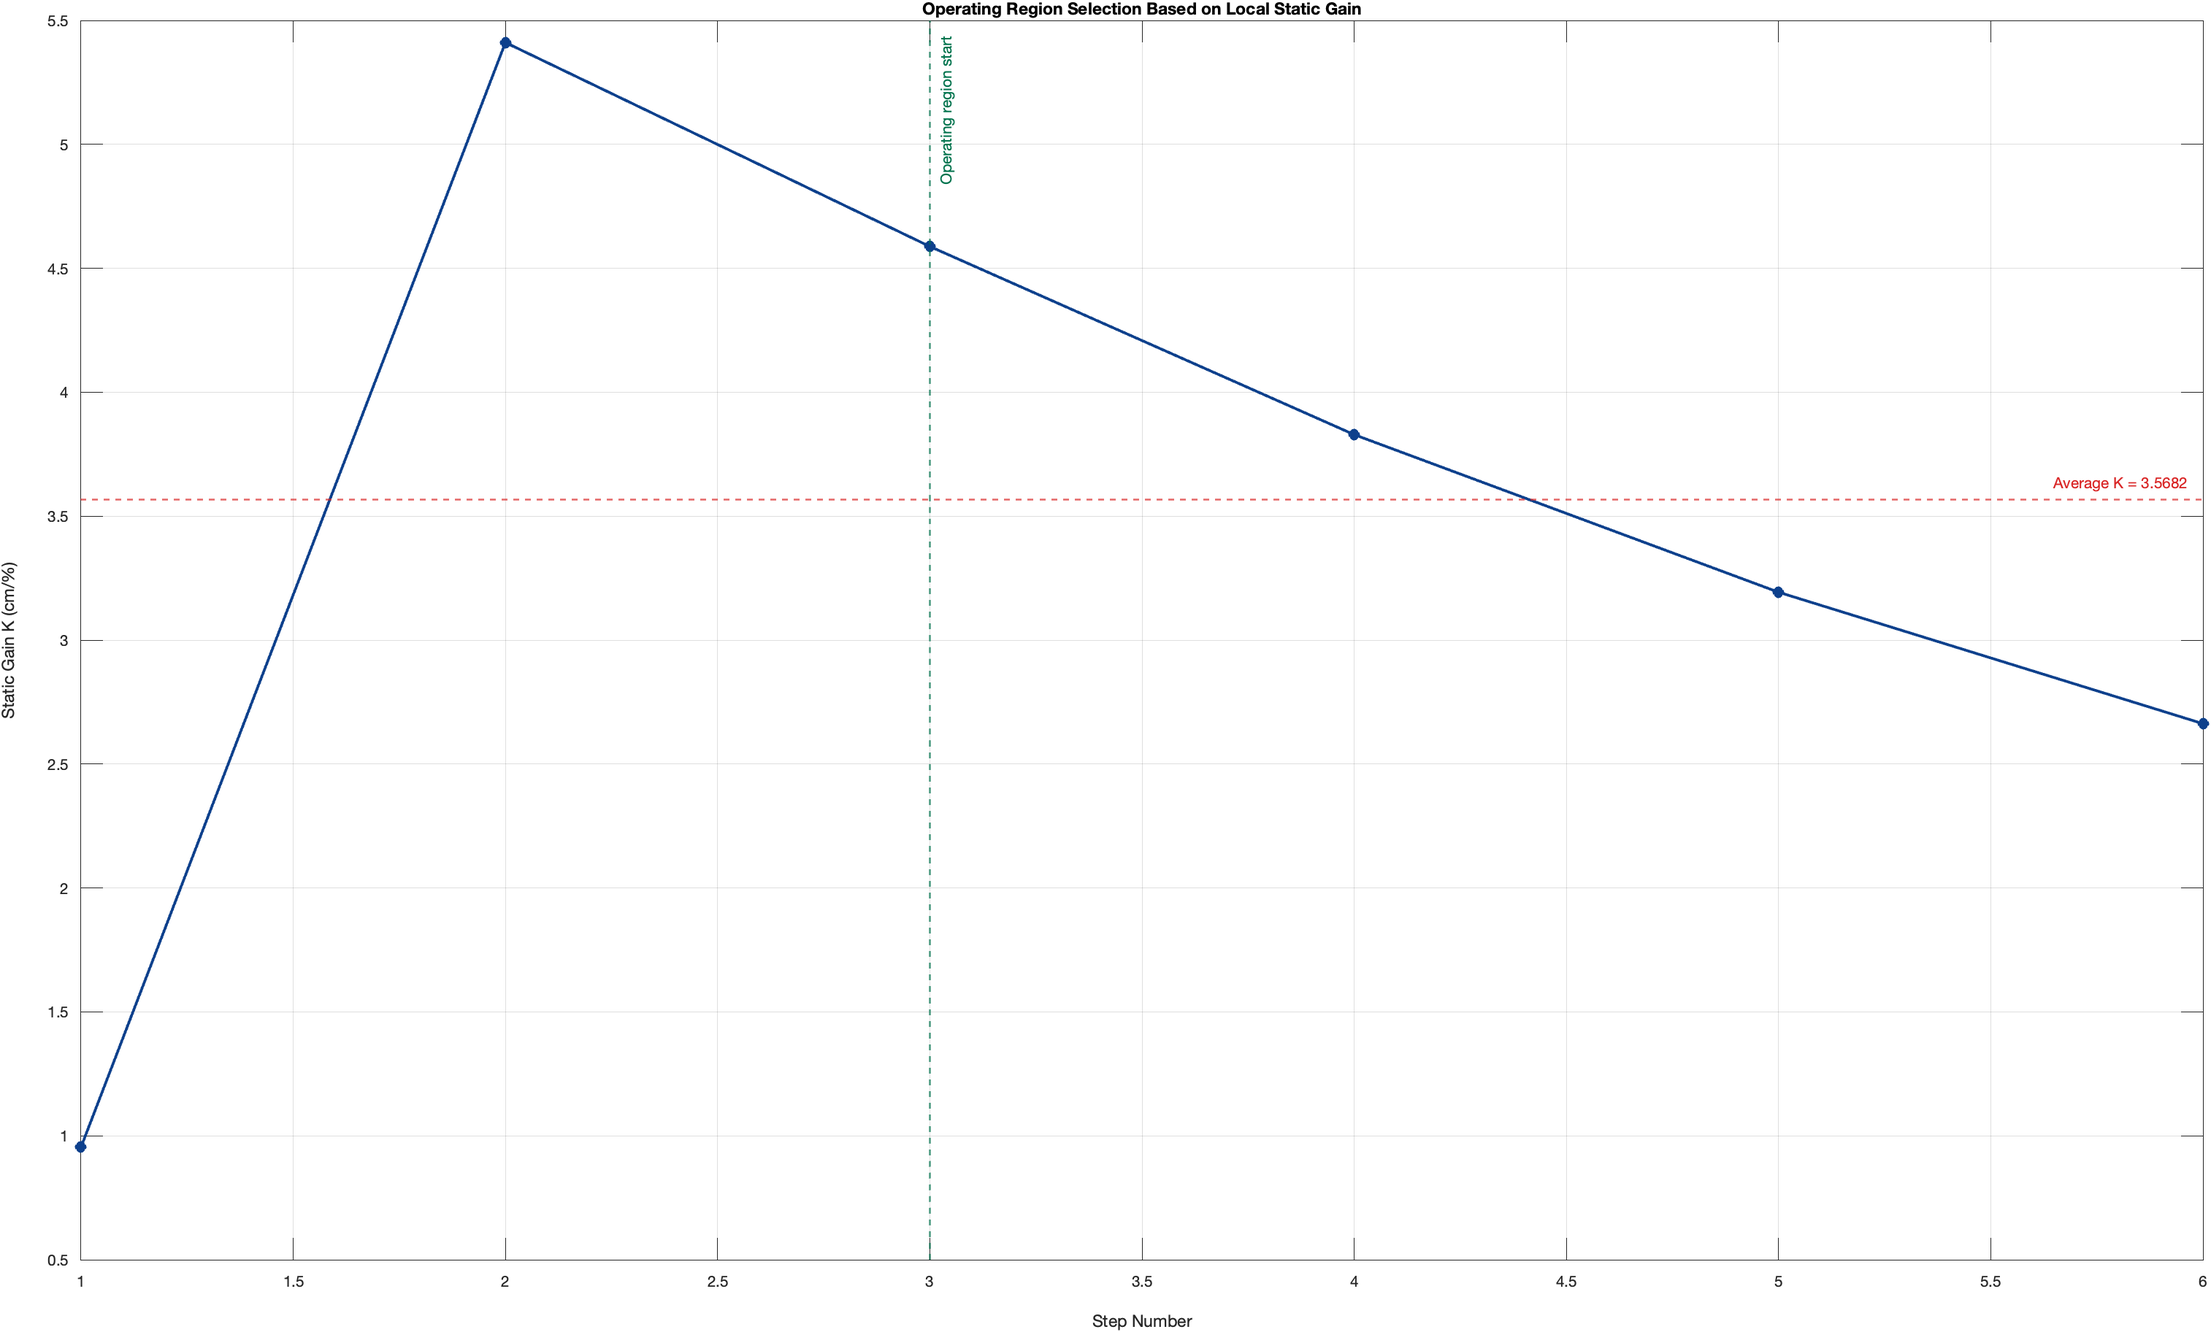
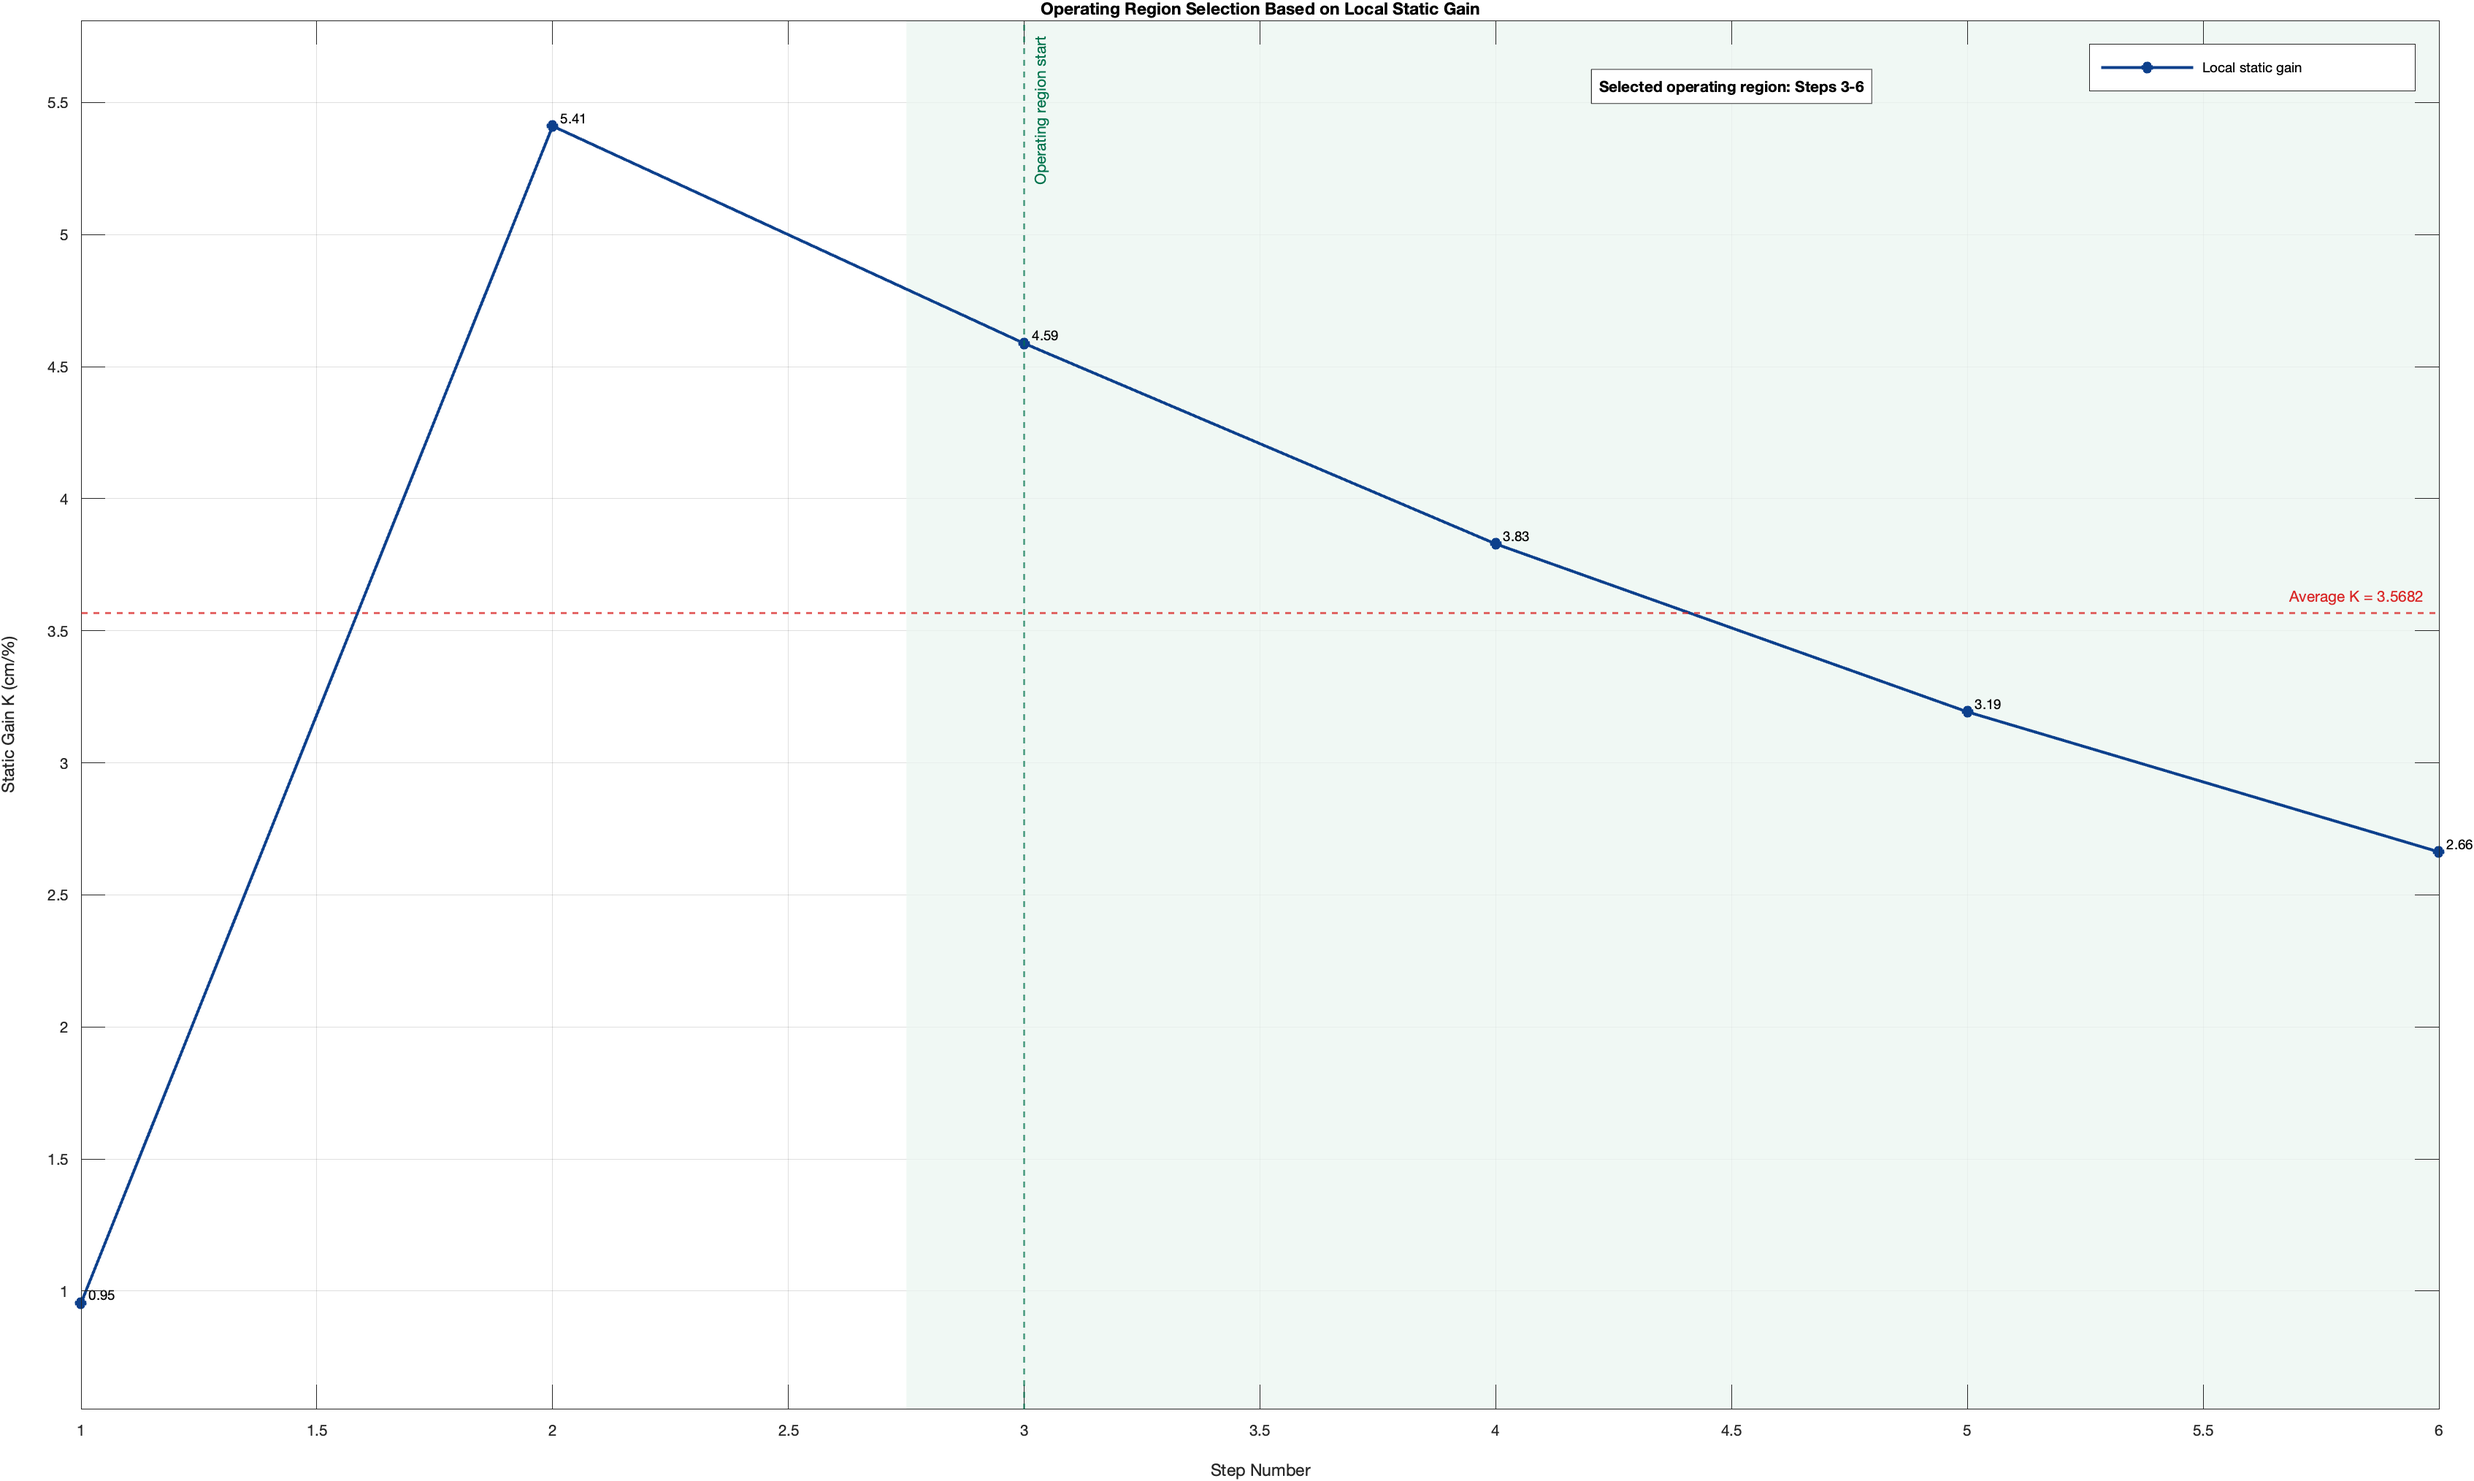
1st output

diff --git a/src/system_identification.m b/src/system_identification.m
@@ -7,7 +7,7 @@
 %   3. Selects a linear operating region.
 %   4. Builds an average FOPTD model.
 %   5. Validates the identified model against measured data.
-%   6. Saves figures and numerical results for GitHub documentation.
+%   6. Exports figures and numerical results for reproducible analysis.
 
 clear; clc; close all;
 
@@ -50,25 +50,49 @@ y     = y_ts.Data(:);
 
 %% Step 3: Plot Raw Input and Output Signals
 
-figure('Name', 'System Step Response', ...
-       'Color', 'w', ...
-       'Position', [100 100 900 600]);
+figRaw = figure('Name', 'System Step Response', ...
+                'Color', 'w', ...
+                'Position', [100 100 1000 650]);
 
-subplot(2,1,1);
-plot(t_in, u, 'Color', [0.05 0.25 0.55], 'LineWidth', 1.5);
-grid on; box on;
-title('Input Signal');
+tiledlayout(2, 1, 'TileSpacing', 'compact', 'Padding', 'compact');
+
+nexttile;
+plot(t_in, u, ...
+    'Color', [0.05 0.25 0.55], ...
+    'LineWidth', 1.6);
+hold on; grid on; box on;
+
+raw_step_times = [400 800 1200 1600 2000 2400];
+
+for k = 1:numel(raw_step_times)
+    xline(raw_step_times(k), ':', ...
+        'Color', [0.45 0.45 0.45], ...
+        'LineWidth', 0.9);
+end
+
+title('Experimental Input Signal');
 xlabel('Time (s)');
 ylabel('Valve Opening (%)');
 
-subplot(2,1,2);
-plot(t_out, y, 'Color', [0.00 0.45 0.30], 'LineWidth', 1.5);
-grid on; box on;
+nexttile;
+plot(t_out, y, ...
+    'Color', [0.00 0.45 0.30], ...
+    'LineWidth', 1.6);
+hold on; grid on; box on;
+
+raw_step_times = [400 800 1200 1600 2000 2400];
+
+for k = 1:numel(raw_step_times)
+    xline(raw_step_times(k), ':', ...
+        'Color', [0.45 0.45 0.45], ...
+        'LineWidth', 0.9);
+end
+
 title('Measured Tank Level Response');
 xlabel('Time (s)');
 ylabel('Tank Level (cm)');
 
-exportgraphics(gcf, fullfile(figuresDir, 'system_step_response.png'), ...
+exportgraphics(figRaw, fullfile(figuresDir, 'system_step_response.png'), ...
     'Resolution', 300);
 
 %% Step 4: Estimate Local FOPTD Parameters from Step Responses
@@ -252,9 +276,9 @@ writetable(validationTable, ...
 
 %% Step 9: Plot Model Validation
 
-figure('Name', 'Model Validation Analysis', ...
-       'Color', 'w', ...
-       'Position', [100 100 1000 600]);
+figValidation = figure('Name', 'Model Validation Analysis', ...
+                       'Color', 'w', ...
+                       'Position', [100 100 1100 650]);
 
 y_min_val = min([y_true_sim; y_model]);
 y_max_val = max([y_true_sim; y_model]);
@@ -264,14 +288,14 @@ fill([t_op_start t_op_end t_op_end t_op_start], ...
      [y_min_val-2 y_min_val-2 y_max_val+2 y_max_val+2], ...
      [0.92 0.96 0.94], ...
      'EdgeColor', 'none', ...
-     'FaceAlpha', 0.65, ...
+     'FaceAlpha', 0.70, ...
      'DisplayName', 'Selected operating region');
 
 hold on; grid on; box on;
 
 hActual = plot(t_out, y, ...
     'Color', [0.05 0.25 0.55], ...
-    'LineWidth', 1.8, ...
+    'LineWidth', 1.9, ...
     'DisplayName', 'Measured output');
 
 hModel = plot(t_sim, y_model, '--', ...
@@ -282,10 +306,20 @@ hModel = plot(t_sim, y_model, '--', ...
 xline(t_op_start, '-.', ...
     'Operating region start', ...
     'Color', [0.00 0.45 0.30], ...
-    'LineWidth', 1.3);
+    'LineWidth', 1.4);
 
-text(t_op_start + 50, y_max_val - 3, ...
-    sprintf('Validation Metrics\\nRMSE = %.4f cm\\nFit = %.2f%%', ...
+% Add step markers
+for k = 1:num_steps
+    xline(step_times(k), ':', ...
+        sprintf('Step %d', k), ...
+        'Color', [0.60 0.60 0.60], ...
+        'LineWidth', 0.8, ...
+        'LabelOrientation', 'horizontal', ...
+        'LabelVerticalAlignment', 'bottom');
+end
+
+text(t_op_start + 50, y_max_val - 4, ...
+    sprintf('Validation Metrics\nRMSE = %.4f cm\nFit = %.2f%%', ...
     rmse, fit_percent), ...
     'FontSize', 10, ...
     'FontWeight', 'bold', ...
@@ -301,72 +335,142 @@ legend([hActual, hModel], {'Measured output', 'FOPTD model'}, ...
 
 ylim([y_min_val - 2, y_max_val + 2]);
 
-exportgraphics(gcf, fullfile(figuresDir, 'model_validation.png'), ...
+exportgraphics(figValidation, fullfile(figuresDir, 'model_validation.png'), ...
     'Resolution', 300);
 
 %% Step 10: Plot Estimated Parameters per Step
 
-figure('Name', 'FOPTD Parameters per Step', ...
-       'Color', 'w', ...
-       'Position', [100 100 1000 700]);
+figParams = figure('Name', 'FOPTD Parameters per Step', ...
+                   'Color', 'w', ...
+                   'Position', [100 100 1100 800]);
 
-subplot(3,1,1);
+tiledlayout(3, 1, 'TileSpacing', 'compact', 'Padding', 'compact');
+
+% Gain K
+nexttile;
 plot(1:num_steps, K_vec, '-o', ...
     'Color', [0.05 0.25 0.55], ...
     'MarkerFaceColor', [0.05 0.25 0.55], ...
-    'LineWidth', 1.5);
-grid on; box on;
+    'LineWidth', 1.6);
+hold on; grid on; box on;
+xline(op_idx(1), '--', 'Operating region start', ...
+    'Color', [0.00 0.45 0.30], ...
+    'LineWidth', 1.2);
+yline(K_avg, '--', sprintf('Mean K = %.4f', K_avg), ...
+    'Color', [0.85 0.15 0.15], ...
+    'LineWidth', 1.1);
+for i = 1:num_steps
+    text(i, K_vec(i), sprintf(' %.2f', K_vec(i)), ...
+        'FontSize', 8, ...
+        'VerticalAlignment', 'bottom');
+end
 ylabel('K (cm/%)');
 title('Estimated FOPTD Parameters per Step');
 
-subplot(3,1,2);
+% Delay theta
+nexttile;
 plot(1:num_steps, delay_vec, '-o', ...
     'Color', [0.85 0.32 0.10], ...
     'MarkerFaceColor', [0.85 0.32 0.10], ...
-    'LineWidth', 1.5);
-grid on; box on;
+    'LineWidth', 1.6);
+hold on; grid on; box on;
+xline(op_idx(1), '--', ...
+    'Color', [0.00 0.45 0.30], ...
+    'LineWidth', 1.2);
+yline(theta_avg, '--', sprintf('Mean \\theta = %.2f s', theta_avg), ...
+    'Color', [0.85 0.15 0.15], ...
+    'LineWidth', 1.1);
+for i = 1:num_steps
+    text(i, delay_vec(i), sprintf(' %.1f', delay_vec(i)), ...
+        'FontSize', 8, ...
+        'VerticalAlignment', 'bottom');
+end
 ylabel('\theta (s)');
 
-subplot(3,1,3);
+% Time constant tau
+nexttile;
 plot(1:num_steps, tau_vec, '-o', ...
     'Color', [0.00 0.45 0.30], ...
     'MarkerFaceColor', [0.00 0.45 0.30], ...
-    'LineWidth', 1.5);
-grid on; box on;
+    'LineWidth', 1.6);
+hold on; grid on; box on;
+xline(op_idx(1), '--', ...
+    'Color', [0.00 0.45 0.30], ...
+    'LineWidth', 1.2);
+yline(tau_avg, '--', sprintf('Mean \\tau = %.2f s', tau_avg), ...
+    'Color', [0.85 0.15 0.15], ...
+    'LineWidth', 1.1);
+for i = 1:num_steps
+    text(i, tau_vec(i), sprintf(' %.1f', tau_vec(i)), ...
+        'FontSize', 8, ...
+        'VerticalAlignment', 'bottom');
+end
 xlabel('Step Number');
 ylabel('\tau (s)');
 
-exportgraphics(gcf, fullfile(figuresDir, 'foptd_parameters_per_step.png'), ...
+exportgraphics(figParams, fullfile(figuresDir, 'foptd_parameters_per_step.png'), ...
     'Resolution', 300);
 
 %% Step 11: Plot Operating Region Analysis
 
-figure('Name', 'Operating Region Analysis', ...
-       'Color', 'w', ...
-       'Position', [100 100 900 500]);
+figOperating = figure('Name', 'Operating Region Analysis', ...
+                      'Color', 'w', ...
+                      'Position', [100 100 1000 560]);
 
-plot(1:num_steps, K_vec, '-o', ...
-    'Color', [0.05 0.25 0.55], ...
-    'MarkerFaceColor', [0.05 0.25 0.55], ...
-    'LineWidth', 1.8);
+y_min_k = min(K_vec) - 0.4;
+y_max_k = max(K_vec) + 0.4;
+
+% Highlight selected operating region steps
+fill([op_idx(1)-0.25 op_idx(end)+0.25 op_idx(end)+0.25 op_idx(1)-0.25], ...
+     [y_min_k y_min_k y_max_k y_max_k], ...
+     [0.92 0.96 0.94], ...
+     'EdgeColor', 'none', ...
+     'FaceAlpha', 0.75, ...
+     'DisplayName', 'Selected operating region');
 
 hold on; grid on; box on;
 
-xline(op_idx(1), '--', 'Operating region start', ...
+hGain = plot(1:num_steps, K_vec, '-o', ...
+    'Color', [0.05 0.25 0.55], ...
+    'MarkerFaceColor', [0.05 0.25 0.55], ...
+    'LineWidth', 1.9, ...
+    'DisplayName', 'Local static gain');
+
+hMean = yline(K_avg, '--', ...
+    sprintf('Average K = %.4f', K_avg), ...
+    'Color', [0.85 0.15 0.15], ...
+    'LineWidth', 1.4, ...
+    'DisplayName', 'Average gain');
+
+xline(op_idx(1), '--', ...
+    'Operating region start', ...
     'Color', [0.00 0.45 0.30], ...
     'LineWidth', 1.3);
 
-yline(K_avg, '--', ...
-    sprintf('Average K = %.4f', K_avg), ...
-    'Color', [0.85 0.15 0.15], ...
-    'LineWidth', 1.3);
+text(mean(op_idx), y_max_k - 0.25, ...
+    sprintf('Selected operating region: Steps %d-%d', ...
+    op_idx(1), op_idx(end)), ...
+    'HorizontalAlignment', 'center', ...
+    'FontSize', 10, ...
+    'FontWeight', 'bold', ...
+    'BackgroundColor', 'w', ...
+    'EdgeColor', [0.2 0.2 0.2], ...
+    'Margin', 5);
+
+for i = 1:num_steps
+    text(i, K_vec(i), sprintf('  %.2f', K_vec(i)), ...
+        'FontSize', 9, ...
+        'VerticalAlignment', 'bottom');
+end
 
 title('Operating Region Selection Based on Local Static Gain');
 xlabel('Step Number');
 ylabel('Static Gain K (cm/%)');
 xlim([1 num_steps]);
+ylim([y_min_k y_max_k]);
+legend([hGain], {'Local static gain'}, 'Location', 'northeast');
 
-exportgraphics(gcf, fullfile(figuresDir, 'operating_region_analysis.png'), ...
+exportgraphics(figOperating, fullfile(figuresDir, 'operating_region_analysis.png'), ...
     'Resolution', 300);
 
 %% Step 12: Final Status Message
